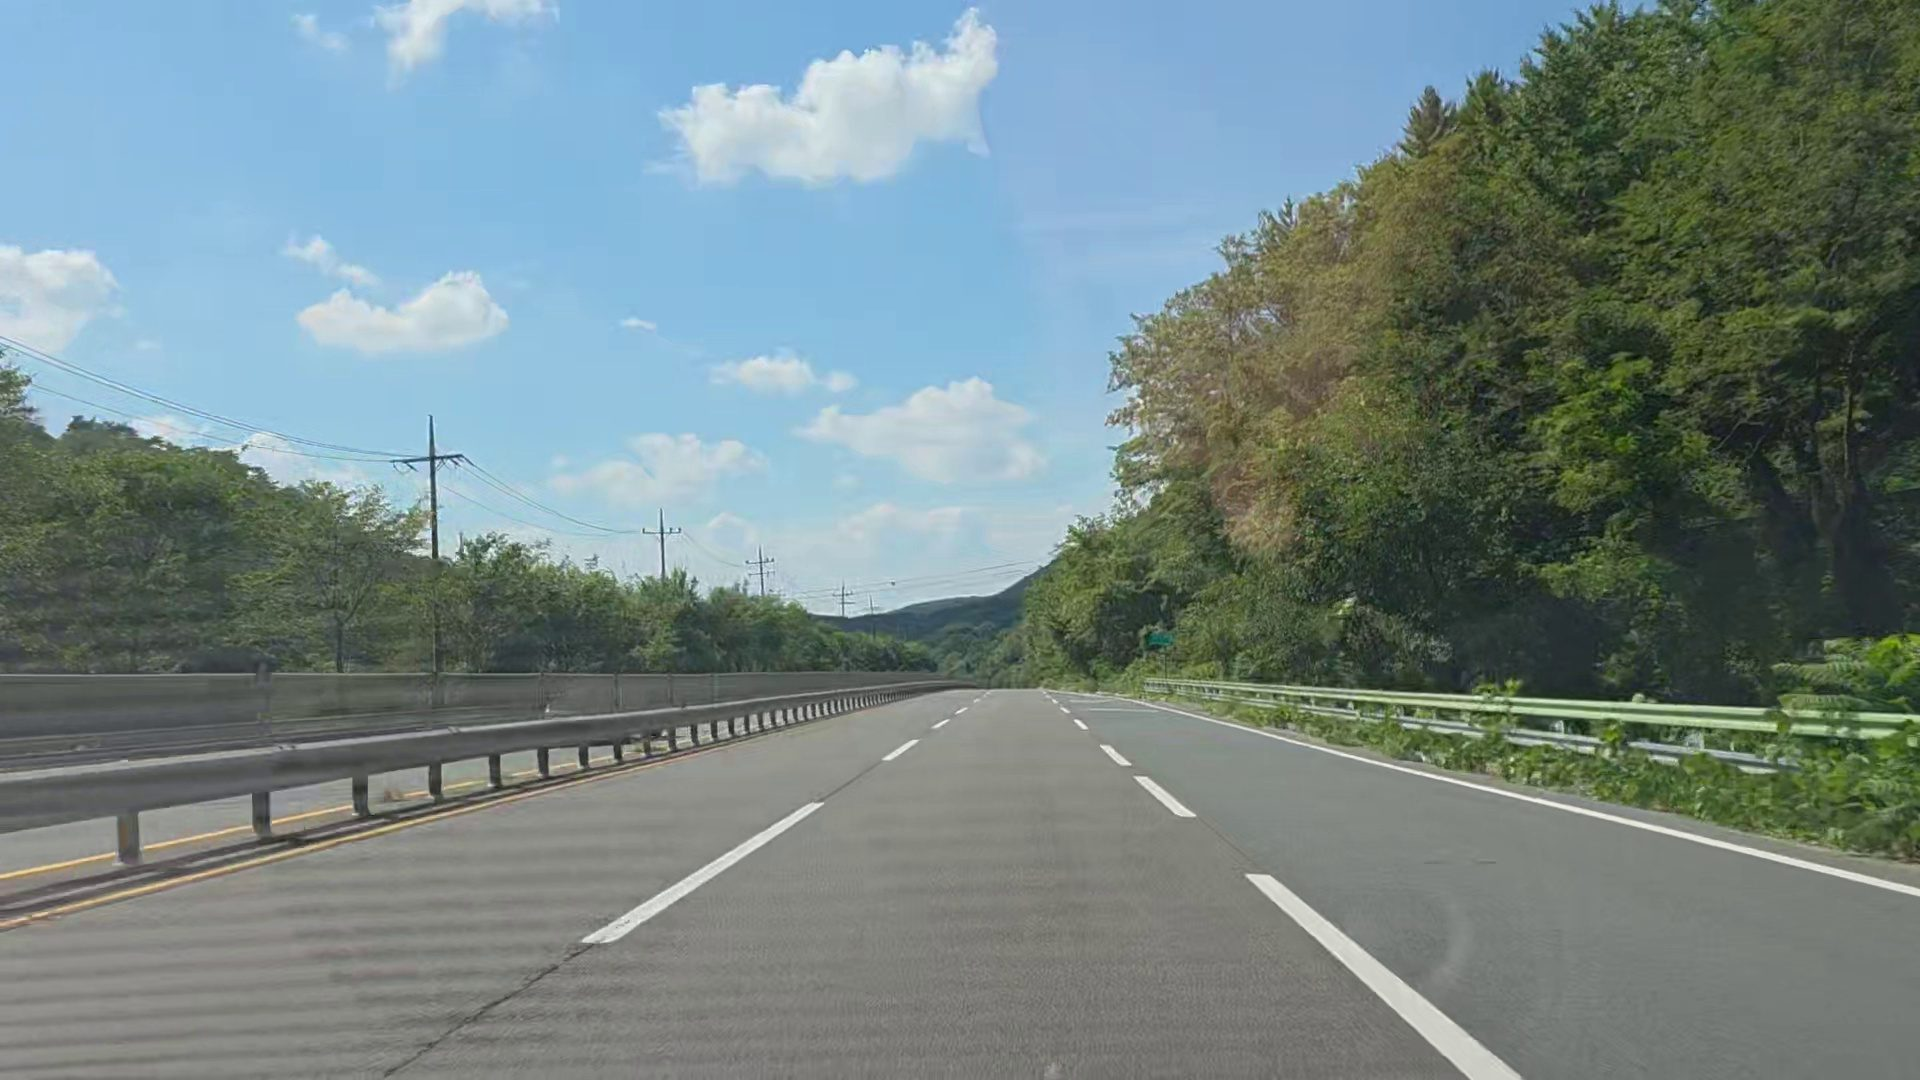
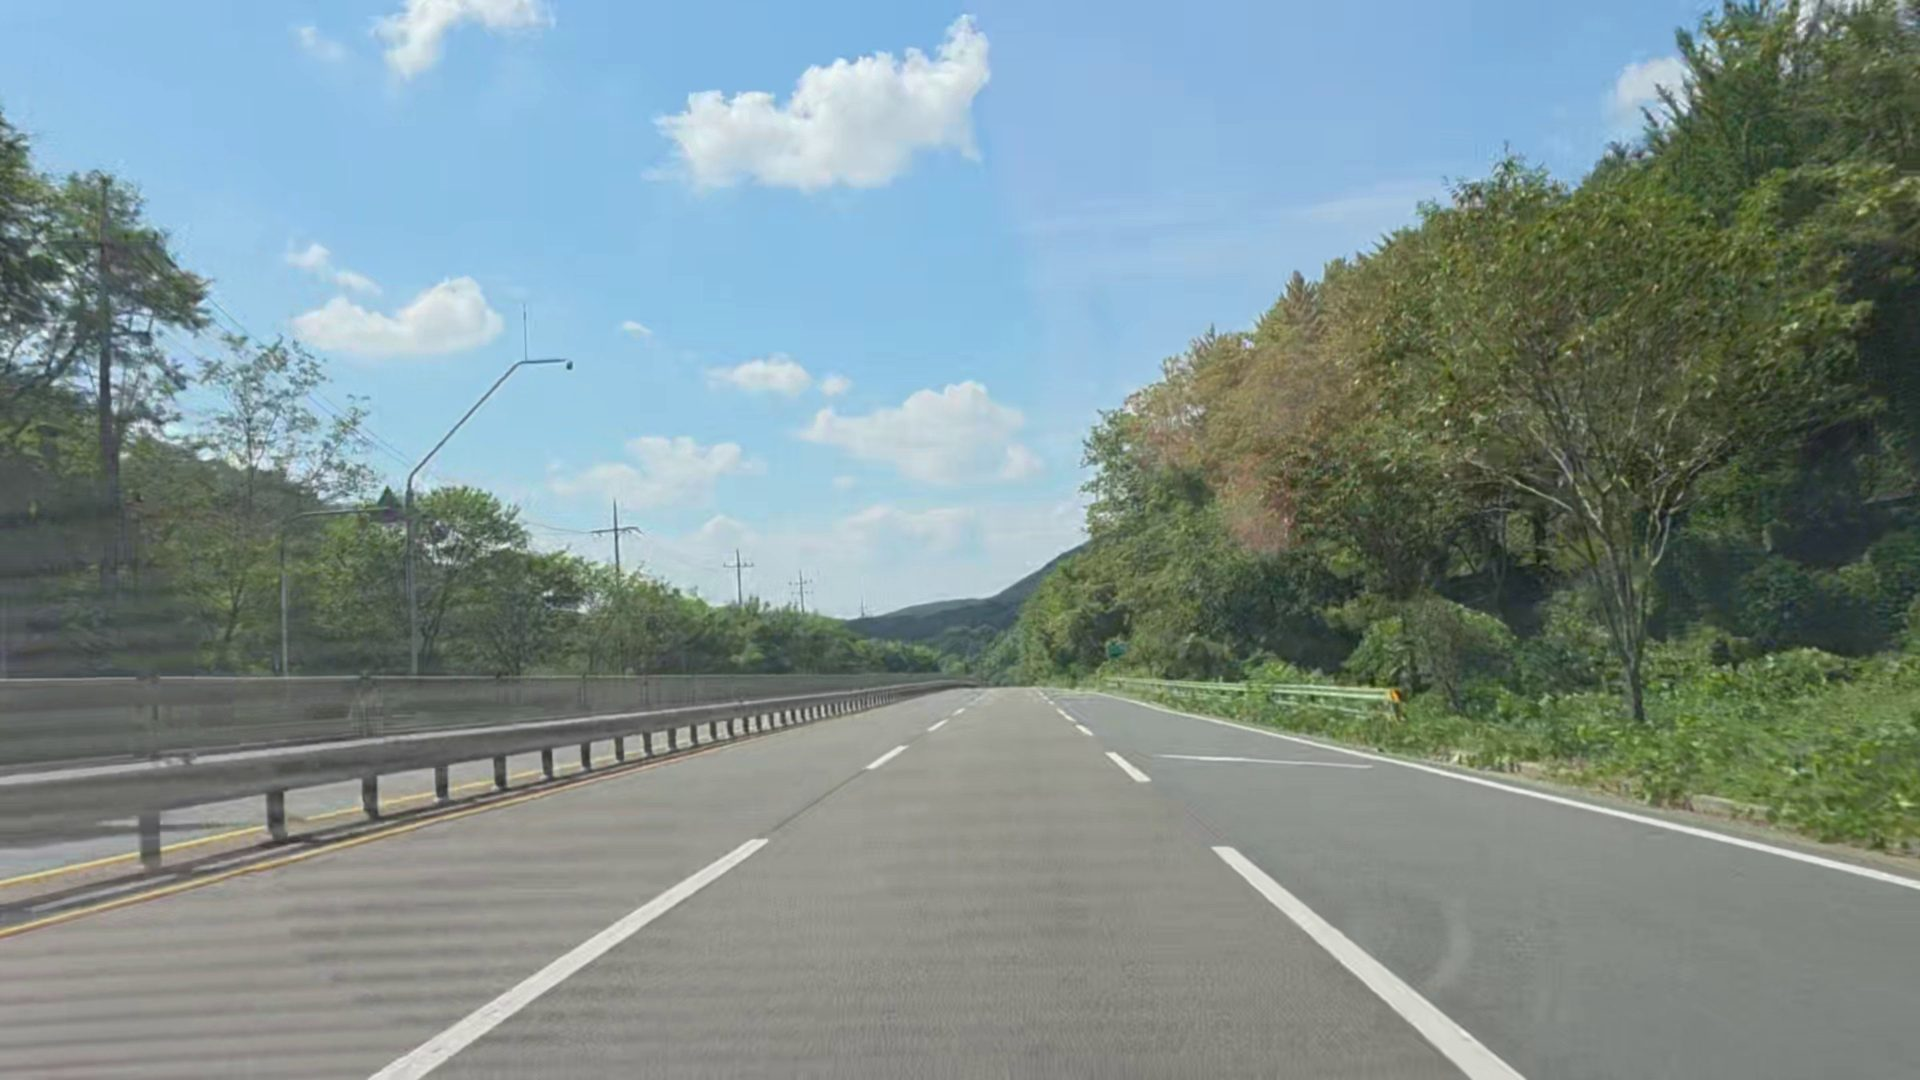
점검 결과 반영 — 휴대폰 사용성, 위험 구간 목록, 링크 미리보기
- 대시보드: 점수 낮은 구간 목록(누르면 지도 이동), 터치 영역 확대,
  휴대폰에서 구간 선택 시 상세 패널로 이동, 구간 번호를 "61번 구간"으로 표시,
  검색 결과 없음 안내, 휴대폰 도구 줄 한 줄로·범례 접기
- CSV: 예시 값이면 파일명과 note 열에 표시, 파일명은 촬영 날짜
- 링크 미리보기(og) 그림·설명, 사이트 아이콘
- 소개: "마모된 차선" 표현, 근거 없는 문장 완화, 5단계 그림에 "예시" 표시,
  줄무늬가 약한 프레임으로 사진 교체

diff --git a/assets/dashboard.js b/assets/dashboard.js
@@ -1,19 +1,35 @@
 // 대시보드 — 프론트 화면 요구사항 정의서 v1 의 화면 구성을 따른다.
 //   지도 = 등급 중심, 상세 패널 = 점수 중심 (정의서 5.1)
 //   구간 위에 마우스 → 간단한 말풍선 / 클릭 → 강조 + 상세 패널 (정의서 10장)
+//   핵심 흐름 "도로 상태 탐색 → 위험구간 발견 → 상세정보 확인" (정의서 1장) → 점수 낮은 구간 목록
+
+// ===== 설정값 =====================================================
+const LIST_MAX_H   = 320;   // 점수 낮은 구간 목록의 최대 높이(px). 넘치면 목록 안에서 스크롤
+const HIT_WEIGHT   = 22;    // 눈에 안 보이는 터치 영역 굵기(px). 휴대폰에서 20m 구간을 손가락으로 고르기 위함
+const FOCUS_ZOOM   = 17;    // 목록에서 구간을 누르면 이 배율까지 확대
+const NARROW_MEDIA = "(max-width: 640px)";   // style.css 의 휴대폰 기준과 같게
+// ==================================================================
 
 const C = MW_CONFIG;
 const state = {
   segs: [],
-  lines: new Map(),          // segment_id -> Leaflet polyline
+  lines: new Map(),          // segment_id -> 보이는 선
+  hits: new Map(),           // segment_id -> 터치 영역(투명한 굵은 선)
   grades: new Set(Object.keys(C.GRADE_COLORS)),   // 켜져 있는 등급
   road: "",                  // 도로명 검색어
   selected: null,
 };
 
 const $ = (id) => document.getElementById(id);
+const narrow = () => window.matchMedia(NARROW_MEDIA).matches;
 const map = L.map("map", { zoomControl: true });
 MW.tiles(map);
+
+// SAMPLE_0061 -> "61번 구간". JSON 의 segment_id 는 그대로 두고 화면에만 이렇게 보인다
+function segName(s) {
+  const m = s.id.match(/(\d+)$/);
+  return m ? `${parseInt(m[1], 10)}번 구간` : s.id;
+}
 
 // ---------- 필터 ----------
 function visible(s) {
@@ -25,11 +41,17 @@ function visible(s) {
 function applyFilter() {
   let n = 0;
   state.segs.forEach((s) => {
-    const line = state.lines.get(s.id);
-    if (visible(s)) { if (!map.hasLayer(line)) line.addTo(map); n++; }
-    else if (map.hasLayer(line)) map.removeLayer(line);
+    const show = visible(s);
+    [state.lines.get(s.id), state.hits.get(s.id)].forEach((l) => {
+      if (show && !map.hasLayer(l)) l.addTo(map);
+      if (!show && map.hasLayer(l)) map.removeLayer(l);
+    });
+    if (show) n++;
   });
-  $("count").textContent = `${state.segs.length}개 구간 중 ${n}개 표시`;
+  $("count").textContent = n === 0 && state.road
+    ? `'${state.road}' 검색 결과가 없습니다`
+    : `${state.segs.length}개 구간 중 ${n}개 표시`;
+  $("count").classList.toggle("empty", n === 0);
   if (state.selected && !visible(state.selected)) select(null);
   if (!state.selected) renderOverview();
 }
@@ -77,13 +99,26 @@ function lineStyle(s, mode) {
   return { ...base, weight: 8, opacity: 0.95 };
 }
 
-function select(s) {
+// from: "map"(지도에서 누름) / "list"(목록에서 누름) / undefined
+function select(s, from) {
   state.selected = s;
   state.segs.forEach((t) => {
     state.lines.get(t.id).setStyle(lineStyle(t, !s ? "normal" : t === s ? "selected" : "dim"));
   });
-  if (s) { state.lines.get(s.id).bringToFront(); renderDetail(s); }
-  else renderOverview();
+  if (!s) { renderOverview(); return; }
+
+  state.lines.get(s.id).bringToFront();
+  renderDetail(s);
+  if (from === "list") {
+    map.flyToBounds(state.lines.get(s.id).getBounds(), { maxZoom: FOCUS_ZOOM, duration: 0.6 });
+  }
+  // 휴대폰에서는 패널이 지도 아래에 있어 눌러도 안 보인다 → 패널로 내려간다
+  if (narrow()) {
+    setTimeout(() => {      // 패널 내용이 바뀐 뒤에 위치를 잰다
+      const top = $("panel").getBoundingClientRect().top + window.scrollY - 64;   // 64 = 위쪽 고정 바
+      window.scrollTo({ top, behavior: "smooth" });
+    }, 0);
+  }
 }
 
 // ---------- 상세 패널 ----------
@@ -92,15 +127,33 @@ function renderOverview() {
   const counts = MW.countGrades(shown);
   const scored = shown.filter((s) => s.d.lcs_score !== null);
   const avg = scored.length ? scored.reduce((a, s) => a + s.d.lcs_score, 0) / scored.length : null;
-  const roads = [...new Set(shown.map((s) => s.d.road_name))].join(", ") || "—";
+  const roads = [...new Set(shown.map((s) => s.d.road_name))].join(", ");
+
+  if (!shown.length) {
+    $("panel").innerHTML = `<h2>구간 요약</h2>
+      <div class="hint">${state.road ? `'${state.road}' 에 해당하는 구간이 없습니다. 도로명을 확인하거나 [초기화]를 눌러 주세요.`
+        : "선택한 등급에 해당하는 구간이 없습니다."}</div>`;
+    return;
+  }
 
   let rows = "";
   Object.keys(C.GRADE_COLORS).forEach((g) => {
     if (g === C.NO_DATA && !counts[g]) return;
-    const pct = shown.length ? (counts[g] / shown.length) * 100 : 0;
+    const pct = (counts[g] / shown.length) * 100;
     rows += `<div class="metric"><span><i class="dot" style="background:${MW.color(g)}"></i>${g}</span>
       <div class="bar"><i style="width:${pct}%;background:${MW.color(g)}"></i></div><b>${counts[g]}</b></div>`;
   });
+
+  // 점수 낮은 순 — 점수 없는(데이터 부족) 구간은 맨 뒤
+  const sorted = [...shown].sort((a, b) =>
+    (a.d.lcs_score ?? Infinity) - (b.d.lcs_score ?? Infinity));
+  const items = sorted.map((s) => `
+    <li><button type="button" class="seg-item" data-id="${s.id}">
+      <i class="dot" style="background:${MW.color(s.grade)}"></i>
+      <span class="name">${segName(s)}</span>
+      <b>${s.d.lcs_score === null ? "—" : MW.fmt(s.d.lcs_score)}</b>
+      <span class="grade" style="color:${MW.color(s.grade)}">${s.grade}</span>
+    </button></li>`).join("");
 
   $("panel").innerHTML = `
     <h2>구간 요약</h2>
@@ -113,7 +166,14 @@ function renderOverview() {
       <div class="block-title">등급별 구간 수 (${shown.length}개 · ${(shown.length * C.SEGMENT_M / 1000).toFixed(2)}km)</div>
       ${rows}
     </div>
-    <div class="hint">지도에서 구간(선)을 누르면 그 구간의 LCS와 4개 지표, 촬영 정보를 볼 수 있습니다.</div>`;
+    <div class="block">
+      <div class="block-title">점수 낮은 구간부터 · 누르면 지도에서 찾아갑니다</div>
+      <ul class="seg-list" style="max-height:${LIST_MAX_H}px">${items}</ul>
+    </div>`;
+
+  $("panel").querySelectorAll(".seg-item").forEach((b) => {
+    b.onclick = () => select(state.segs.find((s) => s.id === b.dataset.id), "list");
+  });
 }
 
 function renderDetail(s) {
@@ -129,8 +189,8 @@ function renderDetail(s) {
 
   $("panel").innerHTML = `
     <div class="panel-head">
-      <div><h2>${d.road_name || "—"}</h2><div class="sub">${s.id}</div></div>
-      <button class="close" type="button" aria-label="닫기" id="closeBtn">×</button>
+      <div><h2>${d.road_name || "—"}</h2><div class="sub">${segName(s)}</div></div>
+      <button class="close" type="button" aria-label="목록으로" title="목록으로" id="closeBtn">×</button>
     </div>
 
     <div class="block">
@@ -159,40 +219,50 @@ function renderDetail(s) {
         <tr><td>카메라</td><td>${m.camera_model || "—"}</td></tr>
         <tr><td>AI 신뢰도</td><td>${d.confidence != null ? MW.fmt(d.confidence, 2) : "—"}</td></tr>
       </table>
-    </div>`;
+    </div>
+    <button class="btn btn-light btn-sm back" type="button" id="backBtn">← 구간 목록으로</button>`;
   $("closeBtn").onclick = () => select(null);
+  $("backBtn").onclick = () => select(null);
 }
 
 // ---------- CSV (정의서 12장 — 지금 필터 조건 그대로) ----------
 $("csvBtn").onclick = () => {
+  const sample = C.SHOW_SAMPLE_NOTICE;     // 점수가 예시 값이면 파일 안팎에 표시한다
   const cols = ["segment_id", "road_name", "latitude", "longitude", "lcs_score", "lcs_grade",
     "area_score", "continuity_score", "contrast_score", "brightness_score", "captured_at", "frame_count"];
+  if (sample) cols.push("note");
   const esc = (v) => (v === null || v === undefined ? "" : /[",\n]/.test(String(v)) ? `"${String(v).replace(/"/g, '""')}"` : v);
   const lines = [cols.join(",")];
-  state.segs.filter(visible).forEach((s) => {
-    const row = { ...s.d, segment_id: s.id, lcs_grade: s.grade === C.NO_DATA ? "" : s.grade };
+  const shown = state.segs.filter(visible);
+  shown.forEach((s) => {
+    const row = { ...s.d, segment_id: s.id, lcs_grade: s.grade === C.NO_DATA ? "" : s.grade,
+                  note: "예시 값(실제 점수 아님)" };
     lines.push(cols.map((c) => esc(row[c])).join(","));
   });
+  // 파일 이름은 오늘 날짜가 아니라 촬영 날짜
+  const day = (shown[0] || state.segs[0]).d.captured_at.slice(0, 10).replace(/-/g, "");
   // 엑셀에서 한글이 깨지지 않게 BOM 을 붙인다
   const blob = new Blob(["" + lines.join("\r\n")], { type: "text/csv;charset=utf-8" });
   const a = document.createElement("a");
   a.href = URL.createObjectURL(blob);
-  a.download = `mapwear_segments_${new Date().toISOString().slice(0, 10).replace(/-/g, "")}.csv`;
+  a.download = `mapwear_segments_${day}${sample ? "_예시값" : ""}.csv`;
   a.click();
   URL.revokeObjectURL(a.href);
 };
 
-// ---------- 범례 ----------
+// ---------- 범례 (휴대폰에서는 접어 둔다) ----------
 function addLegend() {
   const counts = MW.countGrades(state.segs);
   const legend = L.control({ position: "bottomleft" });
   legend.onAdd = () => {
-    const div = L.DomUtil.create("div", "legend");
-    div.innerHTML = "<b>LCS 등급</b>" + Object.keys(C.GRADE_COLORS)
+    const div = L.DomUtil.create("details", "legend");
+    if (!narrow()) div.open = true;
+    div.innerHTML = "<summary>LCS 등급</summary>" + Object.keys(C.GRADE_COLORS)
       .filter((g) => g !== C.NO_DATA || counts[g])
       .map((g) => `<div><i class="dot" style="background:${MW.color(g)}"></i>${g}${
         g === "양호" ? " (80~100)" : g === "주의" ? " (60~80)" : g === "위험" ? " (0~60)" : ""}</div>`)
       .join("");
+    L.DomEvent.disableClickPropagation(div);
     return div;
   };
   legend.addTo(map);
@@ -213,13 +283,16 @@ function fitAll() {
   }
 
   state.segs.forEach((s) => {
-    const line = L.polyline(s.latlngs, lineStyle(s, "normal")).addTo(map);
+    // 보이는 선은 눌리지 않게 하고, 그 위에 투명한 굵은 선을 덧대 손가락으로 누르기 쉽게 한다
+    const line = L.polyline(s.latlngs, { ...lineStyle(s, "normal"), interactive: false }).addTo(map);
+    const hit = L.polyline(s.latlngs, { weight: HIT_WEIGHT, opacity: 0, lineCap: "butt" }).addTo(map);
     const tip = s.d.lcs_score === null
-      ? `${s.d.road_name} · ${s.grade}`
-      : `${s.d.road_name} · LCS ${MW.fmt(s.d.lcs_score)} · ${s.grade}`;
-    line.bindTooltip(tip, { sticky: true, className: "seg-tip", direction: "top" });
-    line.on("click", (e) => { L.DomEvent.stopPropagation(e); select(s); });
+      ? `${s.d.road_name} ${segName(s)} · ${s.grade}`
+      : `${s.d.road_name} ${segName(s)} · LCS ${MW.fmt(s.d.lcs_score)} · ${s.grade}`;
+    hit.bindTooltip(tip, { sticky: true, className: "seg-tip", direction: "top" });
+    hit.on("click", (e) => { L.DomEvent.stopPropagation(e); select(s, "map"); });
     state.lines.set(s.id, line);
+    state.hits.set(s.id, hit);
   });
   map.on("click", () => select(null));
 

diff --git a/index.html b/index.html
@@ -4,7 +4,19 @@
   <meta charset="utf-8">
   <meta name="viewport" content="width=device-width, initial-scale=1">
   <title>MapWear — 영상으로 읽는 차선 상태</title>
-  <meta name="description" content="MapWear는 주행 영상을 AI로 분석해 차선 마모도를 LCS 점수로 바꾸고, 20m 구간 단위 지도로 제공합니다.">
+  <meta name="description" content="MapWear는 주행 영상을 AI로 분석해 차선 마모도를 LCS 점수로 바꾸고, 20m 구간 단위 지도로 보여줍니다.">
+  <link rel="icon" href="assets/favicon.svg" type="image/svg+xml">
+  <!-- 링크 미리보기 (카톡·메신저) — 그림은 절대 주소여야 한다 -->
+  <meta property="og:type" content="website">
+  <meta property="og:site_name" content="MapWear">
+  <meta property="og:title" content="MapWear — 영상으로 읽는 차선 상태">
+  <meta property="og:description" content="주행 영상을 AI로 분석해 차선 마모도를 LCS 점수로 바꾸고, 20m 구간 단위 지도로 보여줍니다.">
+  <meta property="og:url" content="https://ares-wjd.github.io/mapwear/">
+  <meta property="og:image" content="https://ares-wjd.github.io/mapwear/assets/img/og.jpg">
+  <meta property="og:image:width" content="1200">
+  <meta property="og:image:height" content="630">
+  <meta name="twitter:card" content="summary_large_image">
+  <meta name="theme-color" content="#0B1F33">
   <link rel="stylesheet" href="https://cdn.jsdelivr.net/gh/orioncactus/pretendard@v1.3.9/dist/web/static/pretendard.min.css">
   <link rel="stylesheet" href="https://cdn.jsdelivr.net/npm/leaflet@1.9.4/dist/leaflet.css">
   <link rel="stylesheet" href="assets/style.css">
@@ -28,7 +40,7 @@
   <div class="hero-inner">
     <span class="eyebrow">AI 기반 차선 상태 데이터</span>
     <h1>주행 영상 한 편으로<br><em>차선의 상태를 점수로</em></h1>
-    <p>MapWear는 주행 영상을 AI로 분석해 차선이 얼마나 닳았는지를
+    <p>MapWear는 주행 영상을 AI로 분석해 차선이 얼마나 마모되었는지를
        <b>LCS(Lane Condition Score)</b>로 바꾸고, 20m 구간마다 지도 위에 보여줍니다.</p>
     <div class="hero-actions">
       <a class="btn btn-primary" href="dashboard.html">대시보드 보기 →</a>
@@ -47,7 +59,7 @@
   <div class="wrap">
     <div class="kicker">WHY</div>
     <h2>차선 점검, 이제 데이터로</h2>
-    <p class="lead">닳은 차선은 비 오는 밤에 잘 보이지 않고, 차선을 읽는 운전자 보조 기능도 헷갈리게 합니다.
+    <p class="lead">마모된 차선은 비 오는 밤처럼 시야가 나쁠 때 특히 잘 보이지 않습니다.
       MapWear는 차선 상태를 같은 기준의 숫자로 바꿔, 어디부터 손봐야 할지 한눈에 보이게 합니다.</p>
     <div class="cards3">
       <div class="card">
@@ -115,6 +127,7 @@
 
       <article class="step">
         <div class="step-media">
+          <span class="sample-tag">예시</span>
           <div class="mini-metrics" aria-label="4개 지표 예시">
             <div class="row"><span>면적 유지율</span><div class="bar"><i style="width:82%"></i></div><b>82</b></div>
             <div class="row"><span>연속성</span><div class="bar"><i style="width:96%"></i></div><b>96</b></div>

diff --git a/assets/style.css b/assets/style.css
@@ -264,8 +264,25 @@ body.dash { height: 100vh; display: flex; flex-direction: column; overflow: hidd
 .info td:first-child { color: var(--muted); width: 42%; }
 .hint { margin-top: 22px; padding: 14px 16px; background: var(--bg); border-radius: 10px; color: var(--muted); font-size: 14px; }
 
-.legend { background: #fff; border-radius: 10px; padding: 10px 14px; box-shadow: var(--shadow); font-size: 13.5px; line-height: 1.9; }
-.legend b { display: block; font-size: 12.5px; color: var(--muted); }
+.legend { background: #fff; border-radius: 10px; padding: 8px 14px; box-shadow: var(--shadow); font-size: 13.5px; line-height: 1.9; }
+.legend summary { font-size: 12.5px; font-weight: 700; color: var(--muted); cursor: pointer; }
+.legend[open] summary { margin-bottom: 2px; }
+.count.empty { color: var(--bad); font-weight: 700; }
+.seg-list { list-style: none; margin: 0; padding: 0; overflow-y: auto; border: 1px solid var(--line); border-radius: 10px; }
+.seg-list li + li { border-top: 1px solid var(--line); }
+.seg-item {
+  width: 100%; display: grid; grid-template-columns: 14px 1fr 44px 40px; align-items: center; gap: 8px;
+  padding: 10px 12px; border: 0; background: #fff; font: inherit; font-size: 14.5px; text-align: left; cursor: pointer;
+}
+.seg-item:hover, .seg-item:focus-visible { background: var(--bg); }
+.seg-item .dot { margin: 0; }
+.seg-item b { text-align: right; }
+.seg-item .grade { font-size: 13px; font-weight: 700; text-align: right; }
+.back { margin-top: 22px; width: 100%; justify-content: center; }
+.step-media .sample-tag {
+  position: absolute; top: 10px; right: 10px; z-index: 2;
+  font-size: 11.5px; font-weight: 800; color: #0B1F33; background: #FFD866; border-radius: 6px; padding: 2px 8px;
+}
 .legend .dot { width: 22px; height: 6px; border-radius: 3px; }
 .leaflet-tooltip.seg-tip { font-family: inherit; font-size: 13.5px; font-weight: 600; border-radius: 8px; padding: 6px 10px; }
 .error { padding: 40px; text-align: center; color: var(--bad); }
@@ -290,6 +307,16 @@ body.dash { height: 100vh; display: flex; flex-direction: column; overflow: hidd
   .dash-main { flex-direction: column; }
   #map { height: 58vh; flex: none; }
   .panel { width: 100%; border-left: 0; border-top: 1px solid var(--line); }
-  .toolbar { padding: 10px 16px; }
-  .search input { width: 120px; }
+  /* 도구 줄은 한 줄로 두고 가로로 밀어 본다 */
+  .toolbar { padding: 8px 12px; flex-wrap: nowrap; overflow-x: auto; gap: 8px; scrollbar-width: none; }
+  .toolbar::-webkit-scrollbar { display: none; }
+  .toolbar > * { flex-shrink: 0; }
+  .toolbar .spacer { display: none; }
+  .search input { width: 104px; padding: 7px 4px; }
+  .search button { padding: 5px 10px; }
+  .chip { padding: 5px 10px; font-size: 13px; }
+  .chips { flex-wrap: nowrap; }
+  .count { font-size: 12.5px; }
+  .notice { font-size: 12.5px; padding: 6px 12px; }
+  .dash .nav .btn { padding: 7px 12px; font-size: 13px; }
 }

diff --git a/dashboard.html b/dashboard.html
@@ -4,6 +4,18 @@
   <meta charset="utf-8">
   <meta name="viewport" content="width=device-width, initial-scale=1">
   <title>MapWear 대시보드 — 차선 상태 지도</title>
+  <link rel="icon" href="assets/favicon.svg" type="image/svg+xml">
+  <!-- 링크 미리보기 (카톡·메신저) — 그림은 절대 주소여야 한다 -->
+  <meta property="og:type" content="website">
+  <meta property="og:site_name" content="MapWear">
+  <meta property="og:title" content="MapWear 대시보드 — 차선 상태 지도">
+  <meta property="og:description" content="20m 구간마다 차선 상태(LCS)를 등급 색으로 보여주는 지도입니다.">
+  <meta property="og:url" content="https://ares-wjd.github.io/mapwear/dashboard.html">
+  <meta property="og:image" content="https://ares-wjd.github.io/mapwear/assets/img/og.jpg">
+  <meta property="og:image:width" content="1200">
+  <meta property="og:image:height" content="630">
+  <meta name="twitter:card" content="summary_large_image">
+  <meta name="theme-color" content="#0B1F33">
   <link rel="stylesheet" href="https://cdn.jsdelivr.net/gh/orioncactus/pretendard@v1.3.9/dist/web/static/pretendard.min.css">
   <link rel="stylesheet" href="https://cdn.jsdelivr.net/npm/leaflet@1.9.4/dist/leaflet.css">
   <link rel="stylesheet" href="assets/style.css">
